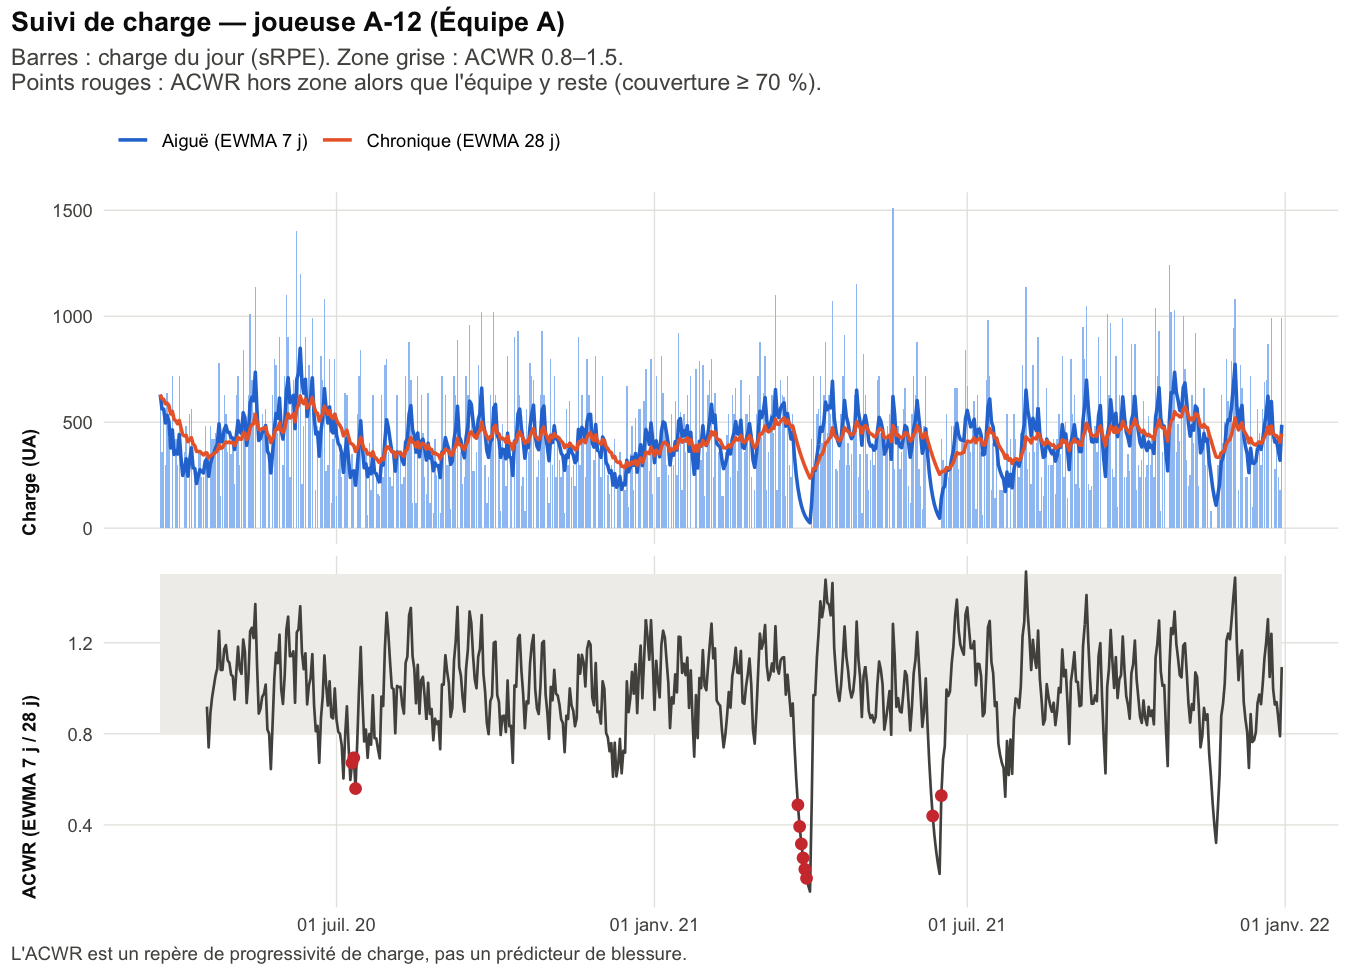
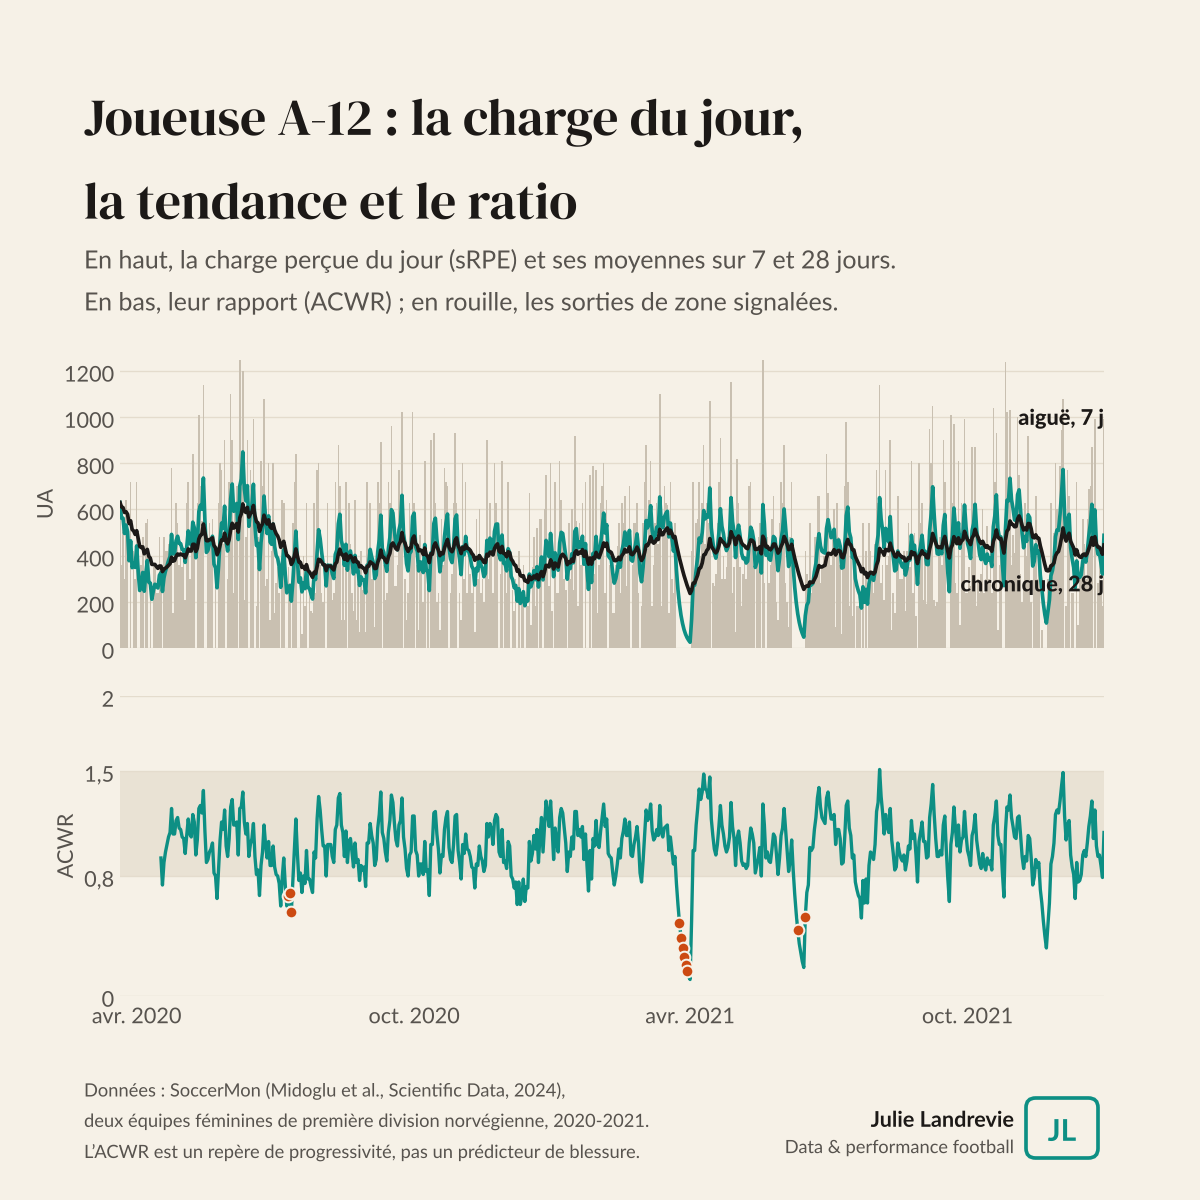
Figures du README dans la charte, produites depuis docs/data.js (scripts/figures_charte.py)

diff --git a/scripts/figures_charte.py b/scripts/figures_charte.py
@@ -1,0 +1,277 @@
+"""Figures du README et du portfolio, dans la charte visuelle (format carré 1 200 px).
+
+Lit docs/data.js (écrit par le pipeline R, R/05_dashboard.R) et écrit docs/figures/*.png.
+Usage : python3 scripts/figures_charte.py
+"""
+import json
+import sys
+from pathlib import Path
+
+import numpy as np
+import pandas as pd
+from matplotlib.colors import LinearSegmentedColormap
+
+sys.path.insert(0, str(Path(__file__).parent))
+from charte_jl import C, F, finish, fr, label, new_card, style_axes  # noqa: E402
+
+ROOT = Path(__file__).resolve().parents[1]
+OUT = ROOT / "docs" / "figures"
+OUT.mkdir(parents=True, exist_ok=True)
+
+txt = (ROOT / "docs" / "data.js").read_text(encoding="utf-8")
+D = json.loads(txt[txt.index("{"): txt.rindex("}") + 1])
+T = D["meta"]["thresholds"]
+SRC = "Données : SoccerMon (Midoglu et al., Scientific Data, 2024),\ndeux équipes féminines de première division norvégienne, 2020-2021."
+CMAP = LinearSegmentedColormap.from_list("jl", [C["card"], "#a4d0c8", C["teal"], "#075a53"])
+MOIS = ["janv.", "févr.", "mars", "avr.", "mai", "juin", "juil.", "août", "sept.", "oct.", "nov.", "déc."]
+
+
+def serie(pid):
+    s = D["series"][pid]
+    n = len(s["load"])
+    idx = pd.date_range(s["start"], periods=n, freq="D")
+    return pd.DataFrame({k: v for k, v in s.items() if isinstance(v, list) and len(v) == n}, index=idx)
+
+
+def axe_dates(ax, d0, d1):
+    ticks = pd.date_range(d0, d1, freq="6MS")
+    ax.set_xticks(ticks)
+    ax.set_xticklabels([f"{MOIS[t.month - 1]} {t.year}" for t in ticks])
+
+
+def out(name):
+    return str(OUT / f"{name}.png")
+
+
+# 1. Suivi d'une joueuse ---------------------------------------------------------------
+pid = "A-12"
+s = serie(pid)
+fig = new_card(f"Joueuse {pid} : la charge du jour,\nla tendance et le ratio",
+               "En haut, la charge perçue du jour (sRPE) et ses moyennes sur 7 et 28 jours.\n"
+               "En bas, leur rapport (ACWR) ; en rouille, les sorties de zone signalées.")
+ax = fig.add_axes([0.10, 0.46, 0.82, 0.24]); style_axes(ax)
+ax.bar(s.index, s["load"], width=1.0, color=C["compare"], zorder=1)
+ax.plot(s.index, s["acute"], color=C["teal"], lw=2.2, zorder=3)
+ax.plot(s.index, s["chronic"], color=C["ink"], lw=2.2, zorder=4)
+ax.set_ylim(0, s["load"].quantile(0.995) * 1.05)
+ax.set_xticklabels([])
+style_axes(ax)
+ax.set_ylabel("UA", fontproperties=F["body"], fontsize=13, color=C["ink2"])
+label(ax, s.index[-1], s["acute"].iloc[-60:].max() * 1.25, "aiguë, 7 j", ha="right", fontsize=13)
+label(ax, s.index[-1], s["chronic"].iloc[-1] * 0.55, "chronique, 28 j", ha="right", fontsize=13)
+ax2 = fig.add_axes([0.10, 0.17, 0.82, 0.25]); style_axes(ax2)
+ax2.axhspan(T["acwr_low"], T["acwr_high"], color=C["grid"], alpha=0.7, zorder=0, lw=0)
+ax2.plot(s.index, s["acwr"], color=C["teal"], lw=2, zorder=3)
+al = s[(s["flags"] & 3) > 0]
+ax2.plot(al.index, al["acwr_raw"].fillna(al["acwr"]), "o", ms=7, color=C["rust"], mec=C["bg"], mew=1.2, zorder=4)
+ax2.set_ylim(0, 2.0)
+ax2.set_yticks([0, 0.8, 1.5, 2]); ax2.set_yticklabels(["0", "0,8", "1,5", "2"])
+axe_dates(ax2, s.index[0], s.index[-1]); ax.set_xlim(ax2.get_xlim()) if False else None
+ax.set_xlim(s.index[0], s.index[-1]); ax2.set_xlim(s.index[0], s.index[-1])
+style_axes(ax2)
+ax2.set_ylabel("ACWR", fontproperties=F["body"], fontsize=13, color=C["ink2"])
+finish(fig, SRC + "\nL’ACWR est un repère de progressivité, pas un prédicteur de blessure.", out("suivi_joueuse"))
+
+# 2. Charge hebdomadaire de l'équipe A -------------------------------------------------
+ids = [p for p, t in zip(D["players"]["id"], D["players"]["team"]) if t == "Équipe A"]
+weeks = {}
+for p in ids:
+    s = serie(p)
+    w = s["load"].resample("W-MON", label="left", closed="left").sum()
+    docs = s["doc"].resample("W-MON", label="left", closed="left").sum()
+    weeks[p] = w.where(docs > 0)
+M = pd.DataFrame(weeks).T
+M = M.loc[sorted(M.index, key=lambda p: -M.loc[p].notna().sum())]
+fig = new_card("Deux saisons de charge,\nsemaine par semaine",
+               f"Équipe A, {len(M)} joueuses. Charge perçue cumulée sur la semaine (sRPE, UA).\n"
+               "Case vide : aucun jour documenté cette semaine-là.")
+ax = fig.add_axes([0.10, 0.17, 0.74, 0.56]); style_axes(ax)
+im = ax.imshow(M.values, aspect="auto", cmap=CMAP, vmin=0, vmax=np.nanpercentile(M.values, 98),
+               interpolation="nearest")
+ax.set_yticks(range(len(M))); ax.set_yticklabels(M.index)
+cols = M.columns
+tk = [i for i, c in enumerate(cols) if c.day <= 7 and c.month in (1, 7)]
+ax.set_xticks(tk); ax.set_xticklabels([f"{MOIS[cols[i].month - 1]} {cols[i].year}" for i in tk])
+ax.grid(False)
+style_axes(ax); ax.grid(False)
+for t in ax.get_yticklabels(): t.set_fontsize(10)
+cax = fig.add_axes([0.87, 0.30, 0.02, 0.30])
+cb = fig.colorbar(im, cax=cax); cb.outline.set_visible(False); cax.tick_params(length=0)
+for t in cax.get_yticklabels(): t.set_fontproperties(F["body"]); t.set_fontsize(11); t.set_color(C["ink2"])
+cax.set_yticks(cax.get_yticks()); cax.set_yticklabels([fr(v, 0) for v in cax.get_yticks()])
+fig.text(0.87, 0.62, "UA", fontproperties=F["bold"], fontsize=12, color=C["ink2"])
+finish(fig, SRC, out("charge_hebdo_equipe"))
+
+# 3. Profil avant blessure -------------------------------------------------------------
+ip = D["injury_profile"]
+fig = new_card("Avant une blessure déclarée,\npas de signal net",
+               f"Médiane et intervalle interquartile sur les 21 jours qui précèdent\n{ip['n']} déclarations de blessure.")
+for i, (k, tit, yl) in enumerate([("acwr", "ACWR (EWMA)", None), ("well", "Wellness (z-score)", None)]):
+    ax = fig.add_axes([0.10 + i * 0.44, 0.20, 0.36, 0.48]); style_axes(ax)
+    ax.fill_between(ip["d"], ip[f"{k}_q1"], ip[f"{k}_q3"], color=C["teal"], alpha=0.18, lw=0)
+    ax.plot(ip["d"], ip[f"{k}_med"], color=C["teal"], lw=3.5)
+    ax.axvline(0, color=C["ink2"], lw=1, ls=":")
+    ax.set_title(tit, fontproperties=F["bold"], fontsize=15, color=C["ink"], loc="left", pad=12)
+    ax.set_xticks([-20, -15, -10, -5, 0]); ax.set_xticklabels(["−20", "−15", "−10", "−5", "0"])
+    style_axes(ax)
+    ax.set_yticklabels([fr(v, 1).replace("-", "−") for v in ax.get_yticks()])
+    ax.set_xlabel("jours avant la déclaration", fontproperties=F["body"], fontsize=12, color=C["ink2"])
+    v = ip[f"{k}_med"]
+    label(ax, -21, v[0] + (0.08 if k == "acwr" else 0.12), fr(v[0], 2).replace("-", "−"), fontsize=13)
+    label(ax, 0.3, v[-1], fr(v[-1], 2).replace("-", "−"), fontsize=13, va="center")
+finish(fig, SRC + "\nBlessures auto-déclarées, sans groupe témoin : analyse descriptive.", out("profil_pre_blessure"))
+
+# 4. Charge interne et externe ---------------------------------------------------------
+ie = D["internal_external"]
+fig = new_card("Charge ressentie et distance\nne racontent pas la même chose",
+               "Un point par joueuse et par jour : distance GPS (km) et charge perçue (sRPE).\n"
+               "Les écarts à la droite : séances ressenties plus ou moins dures que leur volume.")
+for i, (team, v) in enumerate(ie.items()):
+    ax = fig.add_axes([0.10 + i * 0.44, 0.19, 0.37, 0.50]); style_axes(ax)
+    km, ld = np.array(v["km"]), np.array(v["load"])
+    ax.scatter(km, ld, s=5, color=C["teal"], alpha=0.25, lw=0, zorder=2)
+    a, b = np.polyfit(km, ld, 1); xx = np.array([0, np.percentile(km, 99.5)])
+    ax.plot(xx, a * xx + b, color=C["rust"], lw=3, zorder=3)
+    ax.set_xlim(0, 16); ax.set_ylim(0, 2000)
+    ax.set_title(team, fontproperties=F["bold"], fontsize=15, color=C["ink"], loc="left", pad=12)
+    style_axes(ax)
+    ax.set_yticklabels([fr(t, 0) for t in ax.get_yticks()])
+    label(ax, 0.4, 1880, f"r = {fr(v['r'], 2)}", fontsize=14, va="top")
+    label(ax, 0.4, 1730, f"{fr(v['n'], 0)} jours", fontsize=12, va="top", color=C["ink2"])
+    ax.set_xlabel("distance (km)", fontproperties=F["body"], fontsize=12, color=C["ink2"])
+    if i == 0:
+        ax.set_ylabel("sRPE (UA)", fontproperties=F["body"], fontsize=12, color=C["ink2"])
+finish(fig, SRC + "\nr : corrélation de Pearson.", out("interne_externe"))
+
+# 5. Ratio et niveau de la base --------------------------------------------------------
+rows = []
+for p in D["players"]["id"]:
+    s = serie(p)
+    rows.append(s[["acwr", "base", "flags"]].dropna(subset=["acwr", "base"]))
+R = pd.concat(rows)
+R["x"] = R["base"].clip(upper=2.0); R["y"] = R["acwr"].clip(upper=2.3)
+hi = R[(R["flags"] & 1) > 0]; lo = R[(R["flags"] & 2) > 0]; ok = R[(R["flags"] & 3) == 0]
+fig = new_card("Même ACWR, exposition différente",
+               "Un point par joueuse et par jour : ACWR et charge chronique rapportée\n"
+               "à la normale de la joueuse (médiane de l’année précédente).")
+ax = fig.add_axes([0.10, 0.17, 0.82, 0.56]); style_axes(ax)
+ax.axhspan(T["acwr_low"], T["acwr_high"], color=C["grid"], alpha=0.6, lw=0, zorder=0)
+for xv in (T["base_low"], T["base_high"]):
+    ax.axvline(xv, color=C["ink2"], lw=1, ls=(0, (4, 4)), zorder=1)
+ax.scatter(ok["x"], ok["y"], s=4, color=C["compare"], alpha=0.35, lw=0, zorder=2)
+ax.scatter(lo["x"], lo["y"], s=18, color=C["teal"], lw=0, zorder=3)
+ax.scatter(hi["x"], hi["y"], s=26, color=C["rust"], lw=0, zorder=4)
+ax.set_xlim(0, 2.05); ax.set_ylim(0, 2.35)
+ax.set_xticks([0, 0.5, 1, 1.5, 2]); ax.set_xticklabels(["0 %", "50 %", "100 %", "150 %", "200 %"])
+ax.set_yticks([0, 0.8, 1.5, 2]); ax.set_yticklabels(["0", "0,8", "1,5", "2"])
+style_axes(ax)
+ax.set_xlabel("charge chronique / normale de la joueuse", fontproperties=F["body"], fontsize=13, color=C["ink2"])
+ax.set_ylabel("ACWR (sRPE)", fontproperties=F["body"], fontsize=13, color=C["ink2"])
+for yy, col, t in [(2.27, C["rust"], "Alerte hausse rapide"), (2.14, C["teal"], "Alerte sous-charge")]:
+    ax.plot([1.42], [yy], "o", ms=8, color=col, zorder=5)
+    ax.text(1.46, yy, t, fontproperties=F["bold"], fontsize=13, color=C["ink"], va="center")
+for x, y, t, ha in [(0.04, 1.62, "Reprise depuis\nune base basse", "left"), (2.0, 1.62, "Hausse sur une\nbase déjà haute", "right"),
+                    (2.0, 0.12, "Baisse depuis une base haute", "right")]:
+    ax.text(x, y, t, fontproperties=F["body"], fontsize=12, color=C["ink2"], ha=ha, va="bottom")
+finish(fig, SRC + "\nBande : zone 0,8-1,5. Pointillés : base basse (< 75 %) et haute (> 125 %).", out("ratio_et_base"))
+
+# 6. Retour au jeu ---------------------------------------------------------------------
+S = pd.DataFrame(D["returns"]["summary"])
+fig = new_card("Reprise individuelle : progressive.\nReprise collective : d’un coup",
+               "Charge perçue (sRPE) chaque semaine après une absence d’au moins 14 jours,\n"
+               "en % des 28 jours qui précèdent l’absence. Médiane et intervalle interquartile.")
+ax = fig.add_axes([0.10, 0.17, 0.82, 0.55]); style_axes(ax)
+ax.axhline(1, color=C["ink2"], lw=1); ax.axhline(0.9, color=C["ink2"], lw=1, ls=":")
+for typ, col, nom in [("individuelle", C["teal"], "Absence individuelle"), ("collective", C["rust"], "Coupure collective")]:
+    d = S[(S["type"] == typ) & (S["metric"] == "srpe")]
+    ax.fill_between(d["week"], d["q1"], d["q3"], color=col, alpha=0.13, lw=0)
+    ax.plot(d["week"], d["med"], "-o", color=col, lw=3.5, ms=10, mec=C["bg"], mew=2)
+    r0 = d.iloc[0]
+    label(ax, 1.12, r0["med"] + (0.06 if typ == "collective" else -0.06), f"{nom} : {fr(r0['med'] * 100, 0, pct=True)}",
+          fontsize=14, va="bottom" if typ == "collective" else "top")
+ax.set_xticks(range(1, 9)); ax.set_xticklabels([f"S{i}" for i in range(1, 9)])
+ax.set_ylim(0, 2.5); ax.set_yticks([0, 0.5, 0.9, 1, 1.5, 2, 2.5])
+ax.set_yticklabels(["0 %", "50 %", "90 %", "100 %", "150 %", "200 %", "250 %"])
+style_axes(ax)
+ax.set_xlabel("semaine après la reprise", fontproperties=F["body"], fontsize=13, color=C["ink2"])
+st = D["returns"]["stats"]
+finish(fig, SRC + f"\n{st['curves_individual']} reprises individuelles, {st['curves_collective']} collectives.", out("retour_au_jeu"))
+
+# 7. Jalons de reprise -----------------------------------------------------------------
+m = pd.DataFrame(D["returns"]["milestones"]["summary"]); m = m[m["level"] == 0.9]
+NOM = {"srpe": "Charge perçue (sRPE)", "hi": "Haute intensité > 19 km/h", "sprint": "Sprint > 23 km/h", "vmax": "Vitesse max (1 s)"}
+rows = [("individuelle", "srpe")] + [("collective", k) for k in ["srpe", "hi", "sprint", "vmax"]]
+fig = new_card("Après une absence individuelle,\n15 jours pour retrouver 90 %",
+               "Jour où chaque qualité retrouve 90 % de son niveau d’avant l’absence\n"
+               "(médiane de Kaplan-Meier, fenêtre glissante de 7 jours : J7 au plus tôt).")
+ax = fig.add_axes([0.40, 0.20, 0.50, 0.50]); style_axes(ax, xgrid=True)
+for y, (typ, k) in zip(range(len(rows))[::-1], rows):
+    r = m[(m["type"] == typ) & (m["metric"] == k)].iloc[0]
+    col = C["rust"] if typ == "individuelle" else C["teal"]
+    ax.barh(y, r["km_median_day"], height=0.58, color=col, zorder=2)
+    label(ax, r["km_median_day"] + 0.4, y, f"J{r['km_median_day']:g}", va="center", fontsize=15)
+    ax.text(-0.02, y + 0.12, NOM[k], transform=ax.get_yaxis_transform(), fontproperties=F["bold"], fontsize=14, color=C["ink"], ha="right", va="center")
+    ax.text(-0.02, y - 0.22, f"{'absence individuelle' if typ == 'individuelle' else 'coupure collective'} · {int(r['reached'])} sur {int(r['n'])}",
+            transform=ax.get_yaxis_transform(), fontproperties=F["body"], fontsize=11, color=C["ink2"], ha="right", va="center")
+ax.set_yticks([]); ax.set_xlim(0, 21); ax.set_xticks([0, 7, 14, 21]); ax.set_xticklabels(["J0", "J7", "J14", "J21"])
+style_axes(ax, xgrid=True)
+finish(fig, SRC + "\nLes données GPS des reprises individuelles sont trop rares (3 reprises).", out("jalons_reprise"))
+
+# 8. Complétude des déclarations --------------------------------------------------------
+q = pd.DataFrame(D["qc"]["completeness"])
+VAR = {"daily_load (> 0)": "charge", "fatigue": "fatigue", "mood": "humeur", "readiness": "forme", "sleep_quality": "sommeil",
+       "soreness": "courbatures", "stress": "stress"}
+fig = new_card("Avant toute alerte, vérifier\nce qui est vraiment déclaré",
+               "Part des jours renseignés sur la période active de chaque joueuse, variable\npar variable. Clair : peu de jours renseignés ; foncé : tous les jours.")
+for i, team in enumerate(D["teams"]):
+    P = q[q["team"] == team].pivot(index="id", columns="var", values="v")[list(VAR)]
+    P = P.loc[P.mean(axis=1).sort_values(ascending=False).index]
+    ax = fig.add_axes([0.12 + i * 0.44, 0.17, 0.34, 0.52]); style_axes(ax)
+    ax.imshow(P.values, aspect="auto", cmap=CMAP, vmin=0, vmax=1, interpolation="nearest")
+    ax.set_yticks(range(len(P))); ax.set_yticklabels(P.index)
+    ax.set_xticks(range(len(VAR))); ax.set_xticklabels(VAR.values(), rotation=55, ha="right")
+    ax.set_title(team, fontproperties=F["bold"], fontsize=15, color=C["ink"], loc="left", pad=10)
+    style_axes(ax); ax.grid(False)
+    for t in ax.get_yticklabels(): t.set_fontsize(9)
+    for t in ax.get_xticklabels(): t.set_fontsize(11)
+finish(fig, SRC, out("qc_completude"))
+
+# 9. Seuils : couverture ----------------------------------------------------------------
+cv = pd.DataFrame(D["thresholds"]["curves"])
+fig = new_card("Avec les seuils féminins,\nl’activité intense redevient visible",
+               "Part des jours-joueuses (GPS, entraînements et matchs) qui dépassent\n"
+               "chaque valeur, avec le seuil masculin puis le seuil féminin.")
+for i, (k, tit, unit) in enumerate([("sprint_dist", "Distance de sprint", "m"), ("acc_high", "Accélérations hautes", "")]):
+    ax = fig.add_axes([0.10 + i * 0.44, 0.19, 0.37, 0.50]); style_axes(ax)
+    d = cv[cv["key"] == k]
+    for st_, col in [("masculin", C["compare"]), ("féminin", C["teal"])]:
+        e = d[d["set"].str.contains(st_)]
+        ax.step(e["x"], e["share"] * 100, where="post", color=col, lw=3.5)
+        lab = e["set"].iloc[0].replace("Seuil ", "seuil ")
+        y0 = e["share"].iloc[0] * 100
+        label(ax, e["x"].max() * 0.04, y0 + (3 if st_ == "féminin" else -4), f"{lab} : {fr(y0, 0, pct=True)}", fontsize=12, va="bottom" if st_ == "féminin" else "top")
+    ax.set_ylim(0, 100); ax.set_xlim(0, d["x"].max())
+    ax.set_yticks([0, 25, 50, 75, 100]); ax.set_yticklabels(["0 %", "25 %", "50 %", "75 %", "100 %"])
+    ax.set_title(tit, fontproperties=F["bold"], fontsize=15, color=C["ink"], loc="left", pad=12)
+    style_axes(ax)
+    ax.set_xlabel("mètres par jour" if unit else "nombre par jour", fontproperties=F["body"], fontsize=12, color=C["ink2"])
+finish(fig, "Seuils féminins et masculins : SkillCorner (webinaire public du 12/10/2026).\n"
+            "Calculs sur SoccerMon (Midoglu et al., 2024), deux équipes féminines.", out("seuils_couverture"))
+
+# 10. Seuils : rangs ---------------------------------------------------------------------
+rk = pd.DataFrame(D["thresholds"]["ranks"]); rk = rk[rk["key"] == "acc_high"]
+fig = new_card("Changer de seuil change le volume,\npresque pas le classement",
+               f"Accélérations hautes : rang de chaque joueuse (percentile) avec le seuil masculin\n"
+               f"et le seuil féminin. Corrélation de rang : {fr(D['thresholds']['stats']['spearman_acc'], 2)}.")
+ax = fig.add_axes([0.14, 0.17, 0.62, 0.56]); style_axes(ax); ax.grid(axis="both", color=C["grid"])
+ax.add_patch(__import__("matplotlib").patches.Rectangle((0, 50), 25, 50, color=C["grid"], alpha=0.8, lw=0, zorder=0))
+ax.plot([0, 100], [0, 100], color=C["ink2"], lw=1, ls=(0, (4, 4)))
+ax.scatter(rk["pct_men"], rk["pct_women"], s=110, color=C["teal"], edgecolor=C["bg"], lw=1.5, zorder=3)
+ax.set_xlim(-3, 103); ax.set_ylim(-3, 103)
+style_axes(ax); ax.grid(axis="both", color=C["grid"])
+ax.set_xlabel("percentile, seuil masculin (3 m/s²)", fontproperties=F["body"], fontsize=13, color=C["ink2"])
+ax.set_ylabel("percentile, seuil féminin (2,7 m/s²)", fontproperties=F["body"], fontsize=13, color=C["ink2"])
+ax.text(1, 98, "Zone grisée : joueuse mal\nclassée avec le seuil\nmasculin (aucune ici)", fontproperties=F["body"], fontsize=11, color=C["ink2"], va="top")
+finish(fig, "Seuils : SkillCorner (webinaire public du 12/10/2026).\nCalculs sur SoccerMon (Midoglu et al., 2024), "
+            f"{len(rk)} joueuses classées.", out("seuils_profils_caches"))
+print("ok", sorted(p.name for p in OUT.glob("*.png")))

diff --git a/scripts/charte_jl.py b/scripts/charte_jl.py
@@ -1,0 +1,51 @@
+import os, urllib.request
+import matplotlib
+matplotlib.use("Agg")
+import matplotlib.pyplot as plt
+from matplotlib import font_manager as fm
+from matplotlib.patches import FancyBboxPatch
+
+C = dict(bg="#f6f1e7", ink="#1c1917", ink2="#57534e", muted="#8a8580", grid="#e4dccd",
+         teal="#0d8f84", rust="#cc4a12", compare="#c9c0b1", card="#fbf8f2")
+FONT_DIR = os.path.expanduser("~/.fonts_jl")
+_FILES = {"title": "dmserifdisplay/DMSerifDisplay-Regular.ttf", "body": "lato/Lato-Regular.ttf",
+          "bold": "lato/Lato-Bold.ttf", "black": "lato/Lato-Black.ttf"}
+def _font(key):
+    os.makedirs(FONT_DIR, exist_ok=True)
+    path = os.path.join(FONT_DIR, os.path.basename(_FILES[key]))
+    if not os.path.exists(path):
+        urllib.request.urlretrieve("https://raw.githubusercontent.com/google/fonts/main/ofl/" + _FILES[key], path)
+    return fm.FontProperties(fname=path)
+F = {k: _font(k) for k in _FILES}
+
+def new_card(title, subtitle):
+    fig = plt.figure(figsize=(10, 10), dpi=120)
+    fig.patch.set_facecolor(C["bg"])
+    fig.text(0.07, 0.93, title, fontproperties=F["title"], fontsize=31, color=C["ink"], va="top", linespacing=1.1)
+    fig.text(0.07, 0.80, subtitle, fontproperties=F["body"], fontsize=15, color=C["ink2"], va="top", linespacing=1.4)
+    return fig
+
+def style_axes(ax, xgrid=False):
+    ax.set_facecolor(C["bg"])
+    for sp in ax.spines.values(): sp.set_visible(False)
+    ax.tick_params(length=0)
+    ax.grid(axis="x" if xgrid else "y", color=C["grid"]); ax.set_axisbelow(True)
+    for t in ax.get_xticklabels() + ax.get_yticklabels():
+        t.set_fontproperties(F["body"]); t.set_fontsize(13); t.set_color(C["ink2"])
+
+def label(ax, x, y, text, **kw):
+    kw.setdefault("fontsize", 16); kw.setdefault("color", C["ink"])
+    return ax.text(x, y, text, fontproperties=F["black"], **kw)
+
+def finish(fig, source, out):
+    fig.text(0.07, 0.035, source, fontproperties=F["body"], fontsize=11, color=C["ink2"], linespacing=1.4)
+    fig.patches.append(FancyBboxPatch((0.855, 0.035), 0.06, 0.05, boxstyle="round,pad=0,rounding_size=0.008",
+                       transform=fig.transFigure, fc="none", ec=C["teal"], lw=2.2, figure=fig))
+    fig.text(0.885, 0.059, "JL", fontproperties=F["bold"], fontsize=18, color=C["teal"], ha="center", va="center")
+    fig.text(0.845, 0.068, "Julie Landrevie", fontproperties=F["bold"], fontsize=13, color=C["ink"], ha="right", va="center")
+    fig.text(0.845, 0.045, "Data & performance football", fontproperties=F["body"], fontsize=11, color=C["ink2"], ha="right", va="center")
+    fig.savefig(out, facecolor=C["bg"]); plt.close(fig)
+
+def fr(x, dec=1, pct=False):
+    s = f"{x:,.{dec}f}".replace(",", " ").replace(".", ",")
+    return s + (" %" if pct else "")

diff --git a/README.md b/README.md
@@ -284,6 +284,10 @@ SOCCERMON_DIR=/chemin/vers/soccermon Rscript run_pipeline.R
 Sorties : `outputs/rapport_charge.html`, `outputs/figures/`, `outputs/tables/`, et le
 tableau de bord dans `docs/` (ouvrir `docs/index.html` dans un navigateur).
 
+Les figures de ce README (`docs/figures/`) sont produites à partir de `docs/data.js`,
+dans la charte visuelle du portfolio : `python3 scripts/figures_charte.py`
+(matplotlib, pandas ; les polices DM Serif Display et Lato sont téléchargées au premier lancement).
+
 Les joueuses apparaissent sous des noms courts (A-01, B-01…) attribués par ordre
 d'arrivée dans les données ; la correspondance avec les identifiants SoccerMon est
 dans `outputs/tables/correspondance_joueuses.csv`.
